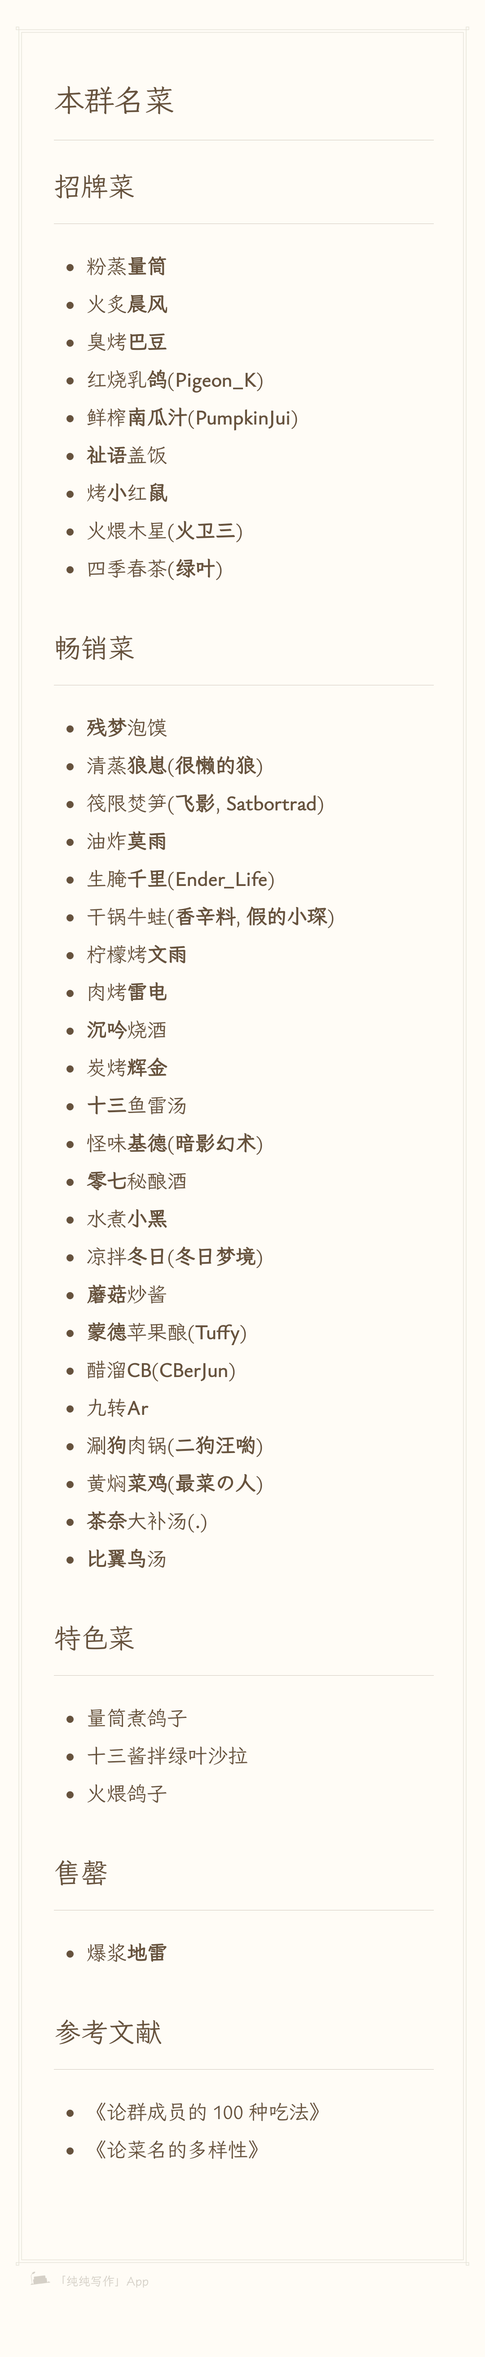
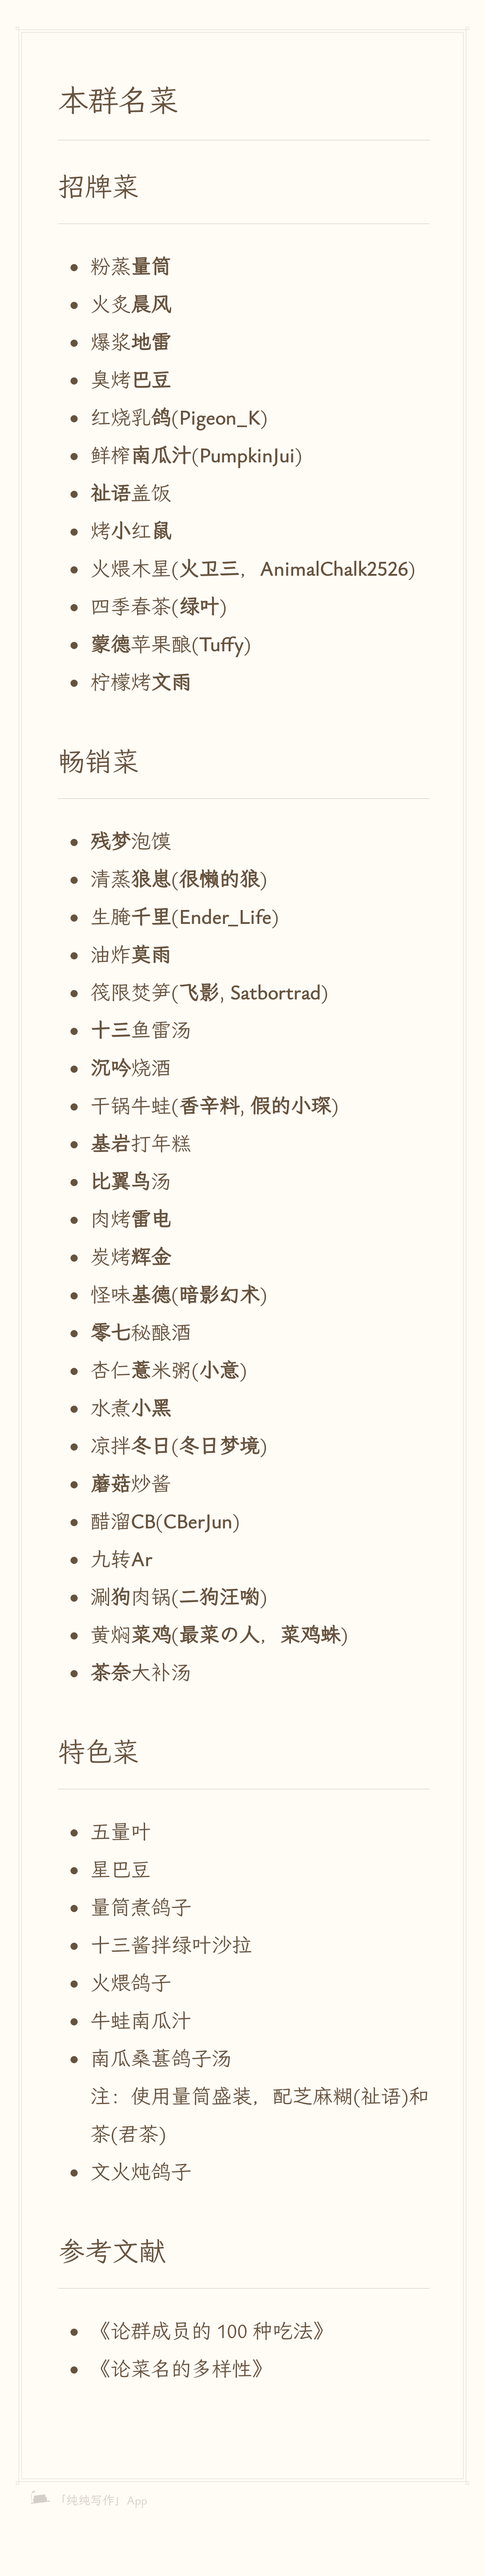
Menu RC2 & Release

diff --git a/documents/menu.md b/documents/menu.md
@@ -45,7 +45,7 @@
 
 - 五量叶  
   ![五量叶 by @文雨](../assets/menu/wuliangye.png)
-- 星巴豆
+- 星巴豆  
   ![星巴豆 by @文雨](../assets/menu/xingbadou.png)
 - 量筒煮鸽子
 - 十三酱拌绿叶沙拉
@@ -75,4 +75,4 @@
 - 《论群成员的 100 种吃法》
 - 《论菜名的多样性》
 
-![230824 最新正式发布版本](../assets/menu/menu.png)
+![240610 最新正式发布版本](../assets/menu/menu.png)
